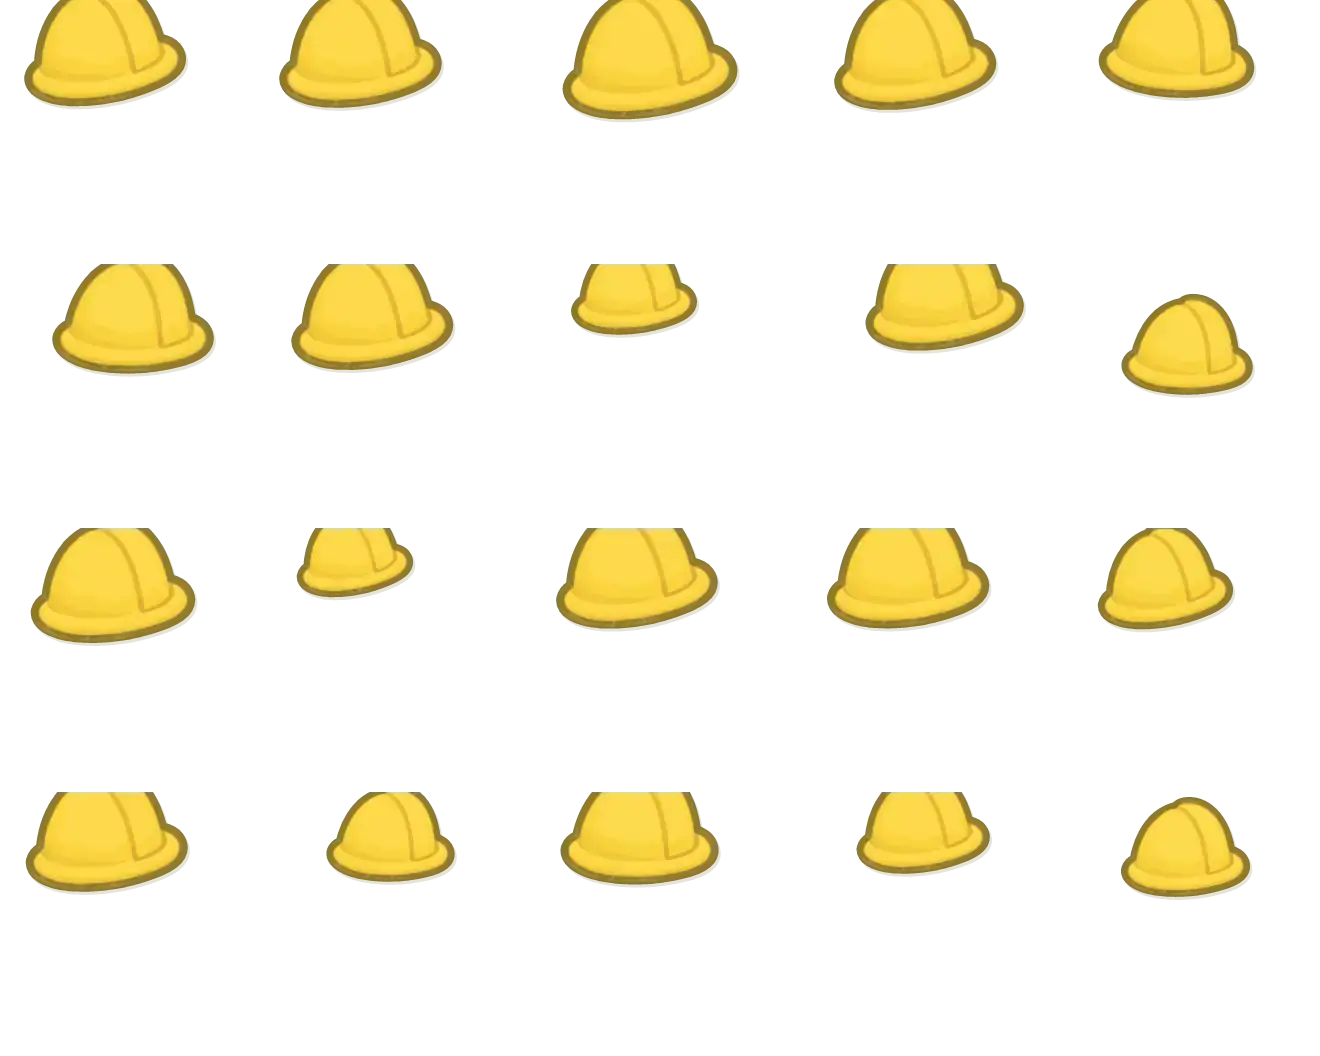
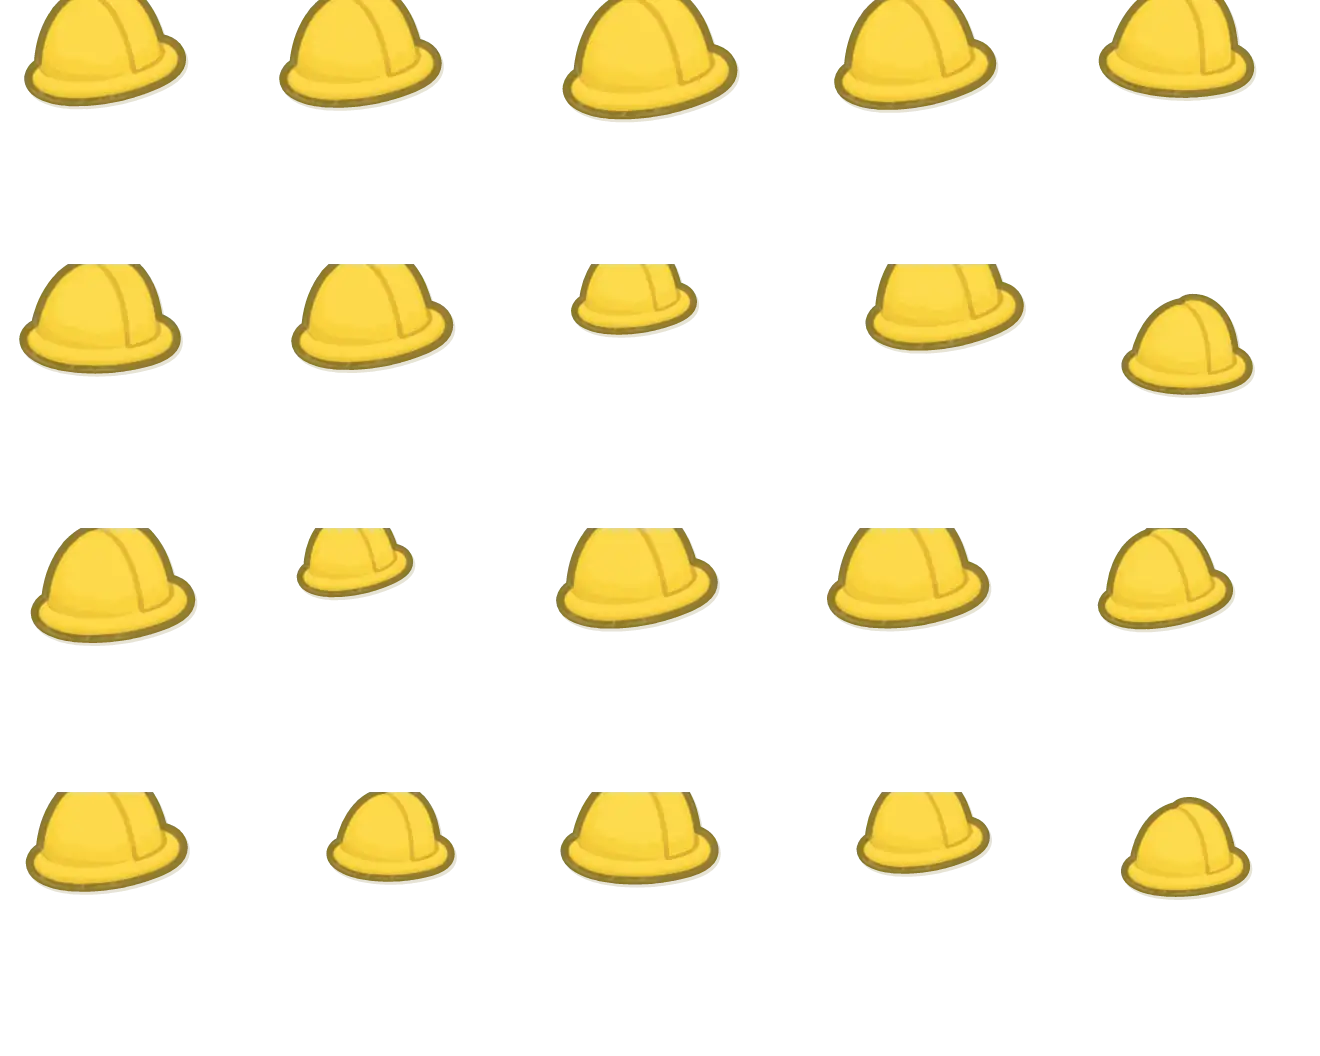
Keep the coral hard hat aligned across bot pictures

Changed region(s): [[0.0, 0.25, 0.1864, 0.375]]

diff --git a/src/shared/bots/bot-slack-icon.ts b/src/shared/bots/bot-slack-icon.ts
@@ -6,7 +6,7 @@ import { parseBotAvatar } from '../bot-avatar'
 import type { Bot } from '../bot-types'
 import { DEFAULT_BOT_AVATAR_COLOR } from './bot-avatar-color'
 
-// Bumped when the mascots' or outfits' art changes, so each icon is drawn again from the new art.
+// An unchanged look keeps its version so only updated artwork is drawn again.
 const SLACK_ICON_ART_VERSION = 'v1'
 
 // As BotAvatarColorSchema and BotStoredOutfitSchema take them.
@@ -28,7 +28,8 @@ export function botSlackIconLook(bot: LookedBot): string | null {
   const outfit =
     typeof bot.avatarOutfit === 'string' && OUTFIT.test(bot.avatarOutfit) ? bot.avatarOutfit : null
   const tile = color && color !== DEFAULT_BOT_AVATAR_COLOR ? color.slice(1) : null
-  return [SLACK_ICON_ART_VERSION, parsed.id, tile ?? 'plain', outfit ?? 'none'].join('-')
+  const artVersion = parsed.id === 'G1' && outfit === 'hard-hat' ? 'v2' : SLACK_ICON_ART_VERSION
+  return [artVersion, parsed.id, tile ?? 'plain', outfit ?? 'none'].join('-')
 }
 
 export function botSlackIconFile(look: string): string {

diff --git a/mobile/src/bots/mobile-bot-outfit-assets.ts b/mobile/src/bots/mobile-bot-outfit-assets.ts
@@ -25,15 +25,17 @@ export function mobileBotOutfitReplacesPicture(outfit: BotAvatarOutfit): boolean
   return outfit === 'reviewer'
 }
 
-/** The outfit's sheet and the column and row of `id`'s render on it. */
+/** The outfit sheet and its position in avatar widths and heights. */
 export function mobileBotOutfitAsset(
   outfit: BotAvatarOutfit,
   id: BotMascotId
-): { sheet: ImageSourcePropType; column: number; row: number } {
+): { sheet: ImageSourcePropType; left: number; top: number } {
   const index = BOT_MASCOT_IDS.indexOf(id)
+  // Coral is in the first column, so shifting its hard hat right exposes only empty space.
+  const offset = id === 'G1' && outfit === 'hard-hat' ? 16 / 128 : 0
   return {
     sheet: OUTFIT_SHEETS[outfit](),
-    column: index % OUTFIT_SHEET_COLUMNS,
-    row: Math.floor(index / OUTFIT_SHEET_COLUMNS)
+    left: offset - (index % OUTFIT_SHEET_COLUMNS),
+    top: -Math.floor(index / OUTFIT_SHEET_COLUMNS)
   }
 }

diff --git a/mobile/src/bots/MobileBotAvatar.tsx b/mobile/src/bots/MobileBotAvatar.tsx
@@ -86,15 +86,15 @@ function OutfitLayer({
   id: BotMascotId
   size: number
 }) {
-  const { sheet, column, row } = mobileBotOutfitAsset(outfit, id)
+  const { sheet, left, top } = mobileBotOutfitAsset(outfit, id)
   return (
     <View style={[StyleSheet.absoluteFill, styles.window]}>
       <Image
         source={sheet}
         style={{
           position: 'absolute',
-          left: -column * size,
-          top: -row * size,
+          left: left * size,
+          top: top * size,
           width: size * OUTFIT_SHEET_COLUMNS,
           height: size * OUTFIT_SHEET_ROWS
         }}
